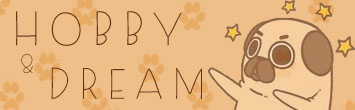
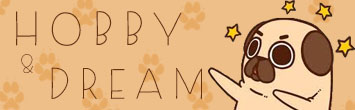
lots of modifications and added image

diff --git a/me/my_pages/me3.html b/me/my_pages/me3.html
@@ -1,28 +1,31 @@
 <html>
 <head>
-<title> Hello! </title>
-<link rel="stylesheet" href="../my_styles/me.css">
+<title> I do </title>
+<link rel="stylesheet" href="../my_styles/me3.css">
 <link rel="icon" href="../my_images/header2.png">
 </head>
 
 <body>
 <figure>
-<img src="../my_images/banner.jpg">
 <img src="../my_images/hobs.jpg">
+<img src="../my_images/banner2.jpg">
+
 </figure>
 
-<div class="holder">
+<div class="holder3">
 <div class="description">
 <p>
-
+Eyyy, this is the end of the line of knowing the person that I am! As you knew, I pretty much like art and doing art. I draw often than not -except maybe when I
 </p>
 
 
 </div>
 </div>	
-<!-- <figure class="home">
+<figure class="home">
 <a href="../../index.html">
-<img src="my_images/home.png" width="80px" height="80px" title="back to homepage"></a>
-</figure> -->
+<img src="../my_images/home.png" width="80px" height="80px" title="back to homepage"></a>
+</figure>
+<div class="holder4">
+</div>
 </body>
 </html>

diff --git a/me/my_styles/me3.css b/me/my_styles/me3.css
@@ -1,0 +1,42 @@
+body{
+	background-image: url('../my_images/my_bg.png');
+	background-position: center;
+    background-repeat: no-repeat;
+    background-size: cover;
+
+}
+
+div.holder3{
+	position: absolute;
+	left: 50px;
+	top:170px;
+	width: 550px;
+    height: 550px;
+	opacity: 0.8;
+	background-color: #eda65e;
+	box-shadow: 0 8px 16px 0 rgba(0,0,0,0.3), 0 6px 20px 0 rgba(0,0,0,0.17);
+}
+figure.home{
+	float: left;
+	margin: -3cm 1cm 1cm 37.4cm;
+}
+div.description{
+	font-family: Maiandra GD Regular;
+	font-size: 23px;
+	color: #69320e;
+	padding-top: 0.3cm;
+	padding-left: 1cm;
+	padding-right: 4cm;
+	padding-bottom: 0.3cm;
+}
+div.holder4{
+	margin: 0cm 1cm 1cm 15cm;
+	position: absolute;
+	left: 50px;
+	top:170px;
+	width: 800px;
+    height: 550px;
+	opacity: 0.8;
+	background-color: #eda65e;
+	box-shadow: 0 8px 16px 0 rgba(0,0,0,0.3), 0 6px 20px 0 rgba(0,0,0,0.17);
+}

diff --git a/me/me.html b/me/me.html
@@ -19,7 +19,11 @@ Hewoooo! So you probably know me by Andrea, but I go by Nicole most of the time.
 <br><br>Also, I do not in any way own the pictures here on my website they're stolen from the internet unless I said otherwise. These (pug)pictures are rightly owned by pugliepug.com, so please don't sue me. Thank you.
 </p>
 </div>
-</div>	
+</div>
+<figure class="home">
+<a href="../index.html">
+<img src="my_images/home.png" width="80px" height="80px" title="back to homepage"></a>
+</figure>	
 <figure class="paw">
 <div class="container">
 	<acronym title="forth">
@@ -33,9 +37,6 @@ Hewoooo! So you probably know me by Andrea, but I go by Nicole most of the time.
 	</acronym>
 </div>
 </figure>
-<figure class="home">
-<a href="../index.html">
-<img src="my_images/home.png" width="80px" height="80px" title="back to homepage"></a>
-</figure>
+
 </body>
 </html>

diff --git a/me/my_styles/me.css b/me/my_styles/me.css
@@ -29,8 +29,8 @@ figure.paw{
 	margin: 13.2cm 23.3cm 1cm 11cm ;
 }
 figure.home{
-	float: right;
-	margin: -3cm -34cm 1cm 1cm;
+	float: left;
+	margin: -2.87cm 1cm 1cm 37.4cm;
 }
 .container {
   position: relative;

diff --git a/me/my_pages/me2.html b/me/my_pages/me2.html
@@ -8,8 +8,9 @@
 
 <body>
 <figure>
-<img src="../my_images/banner.jpg">
 <img src="../my_images/likes.jpg">
+<img src="../my_images/banner2.jpg">
+
 </figure>
 
 <div class="holder2">

diff --git a/me/my_styles/me2.css b/me/my_styles/me2.css
@@ -17,7 +17,7 @@ div.holder2{
 }
 figure.home{
 	float: left;
-	margin: -17.9cm 1cm 10cm 36cm;
+	margin: -3cm 1cm 1cm 37.4cm;
 }
 figure.forth{
 	float: right;
